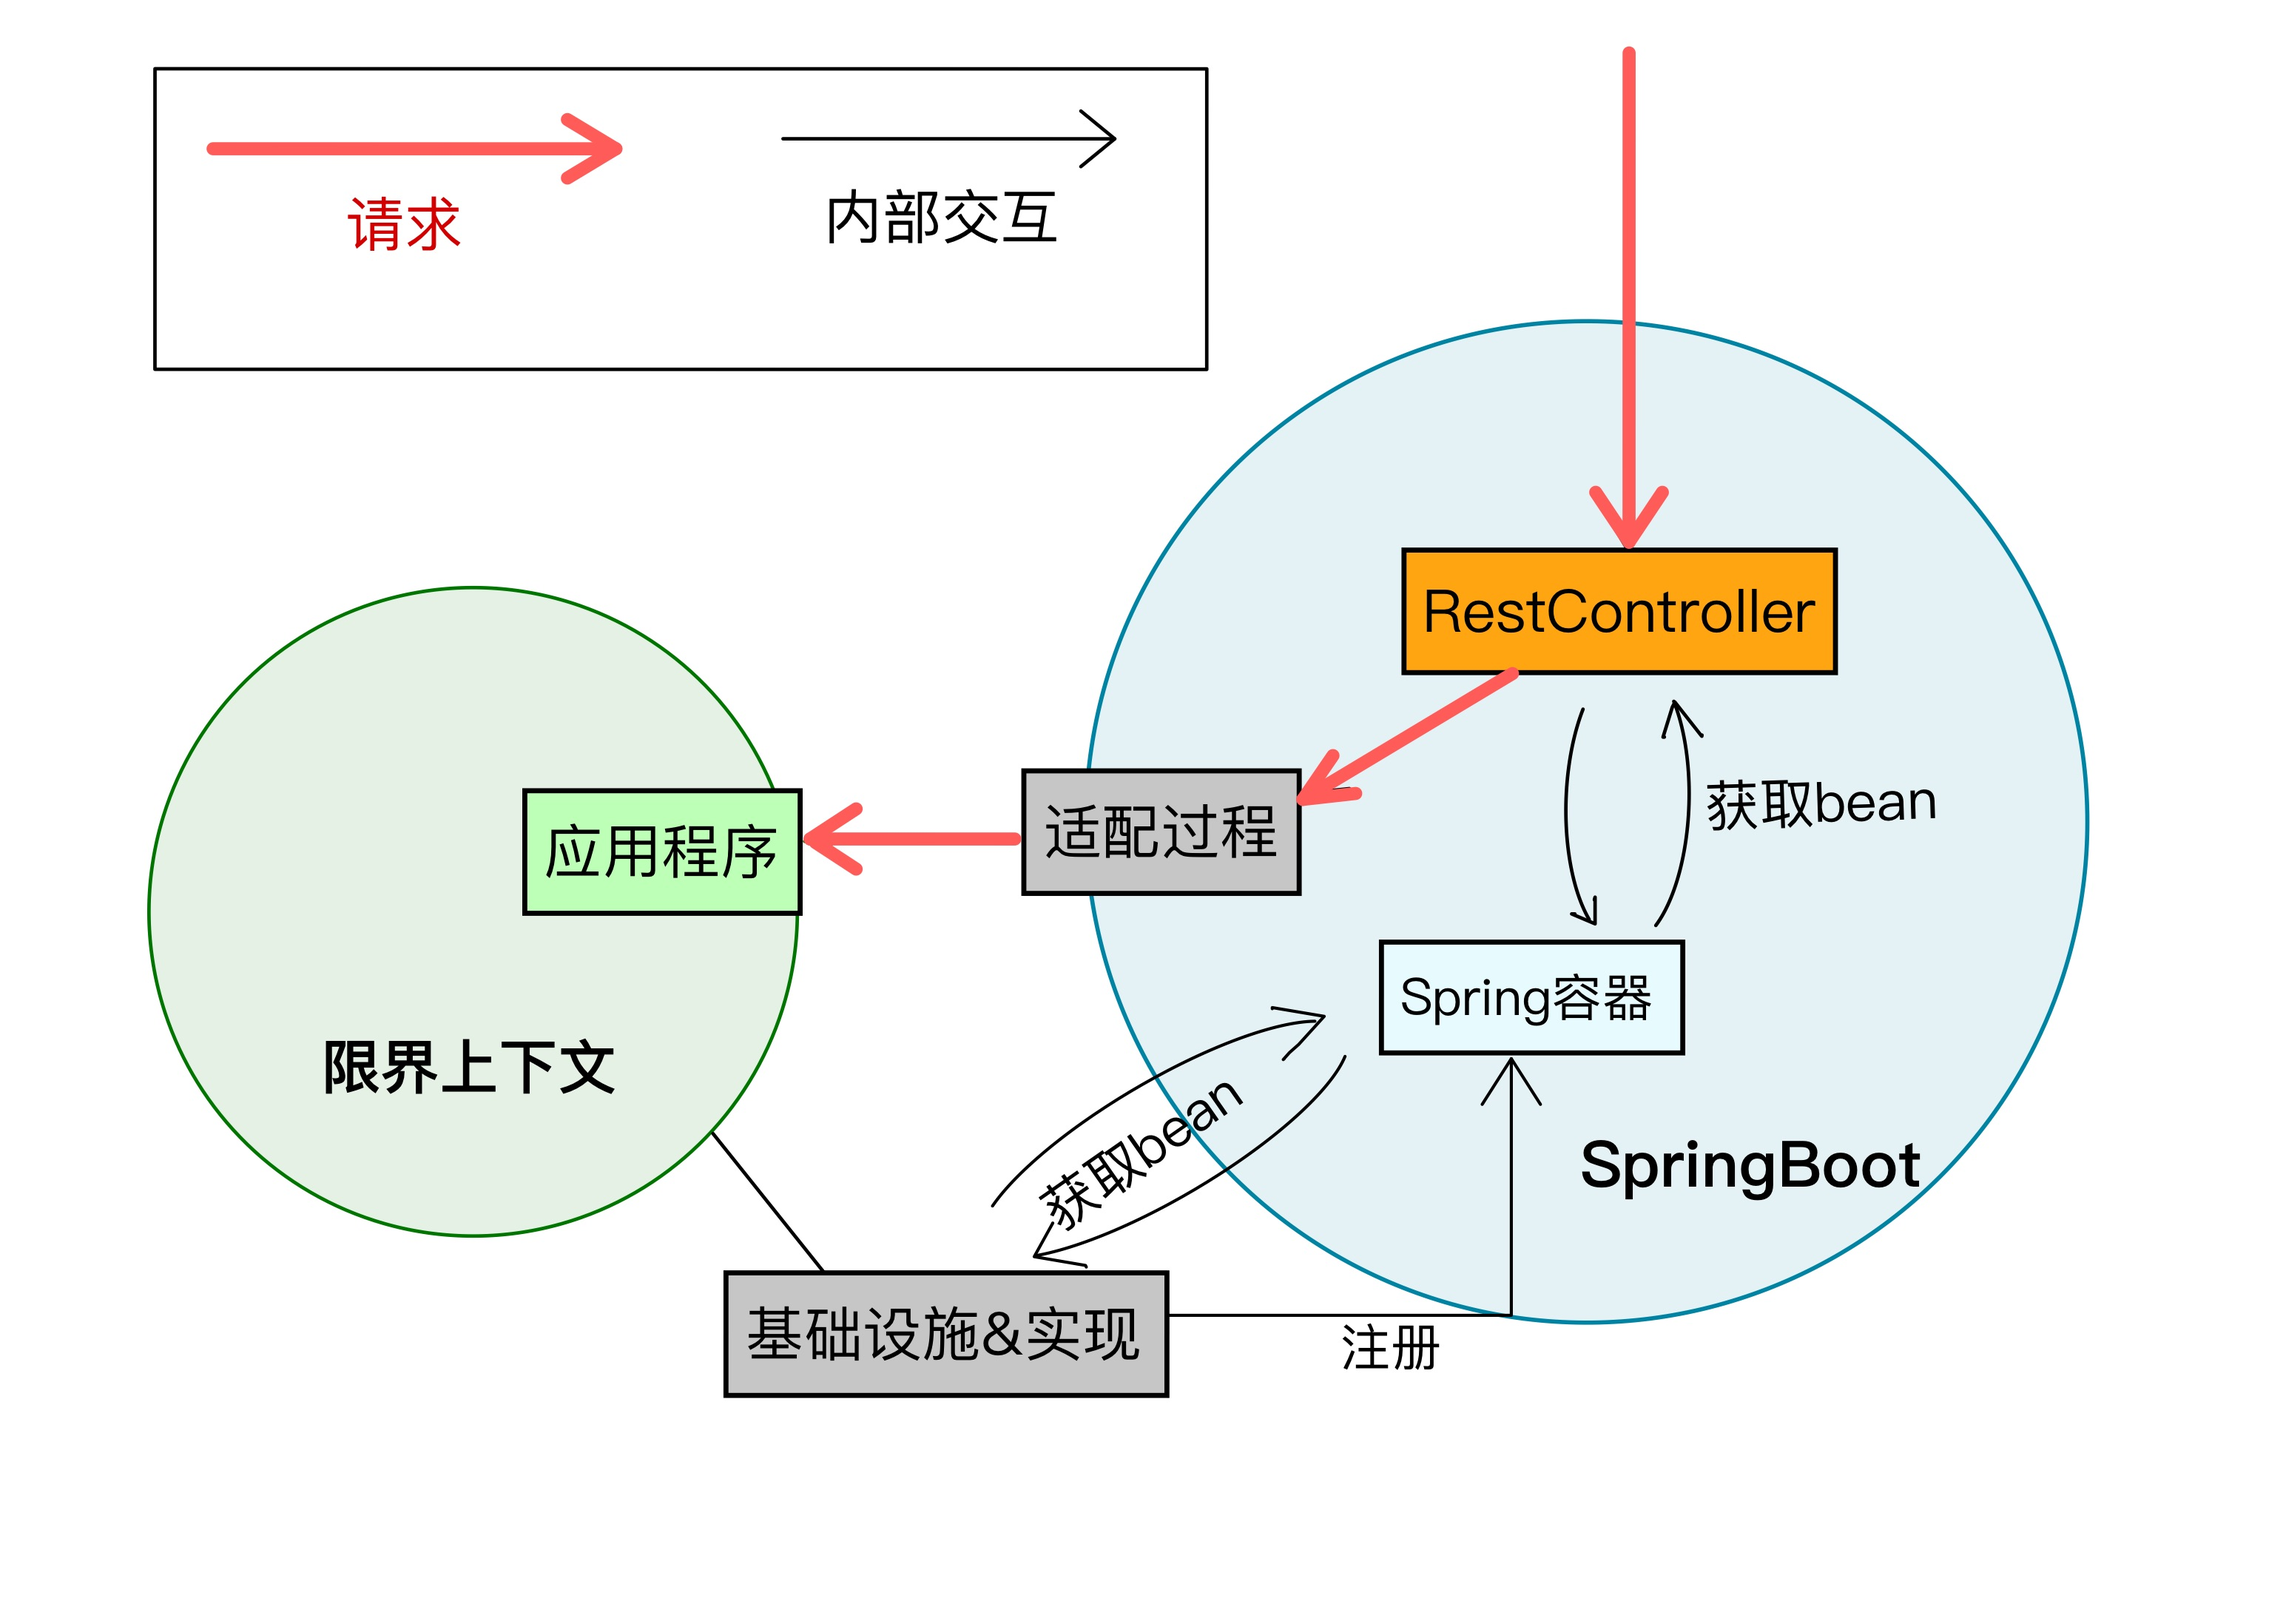
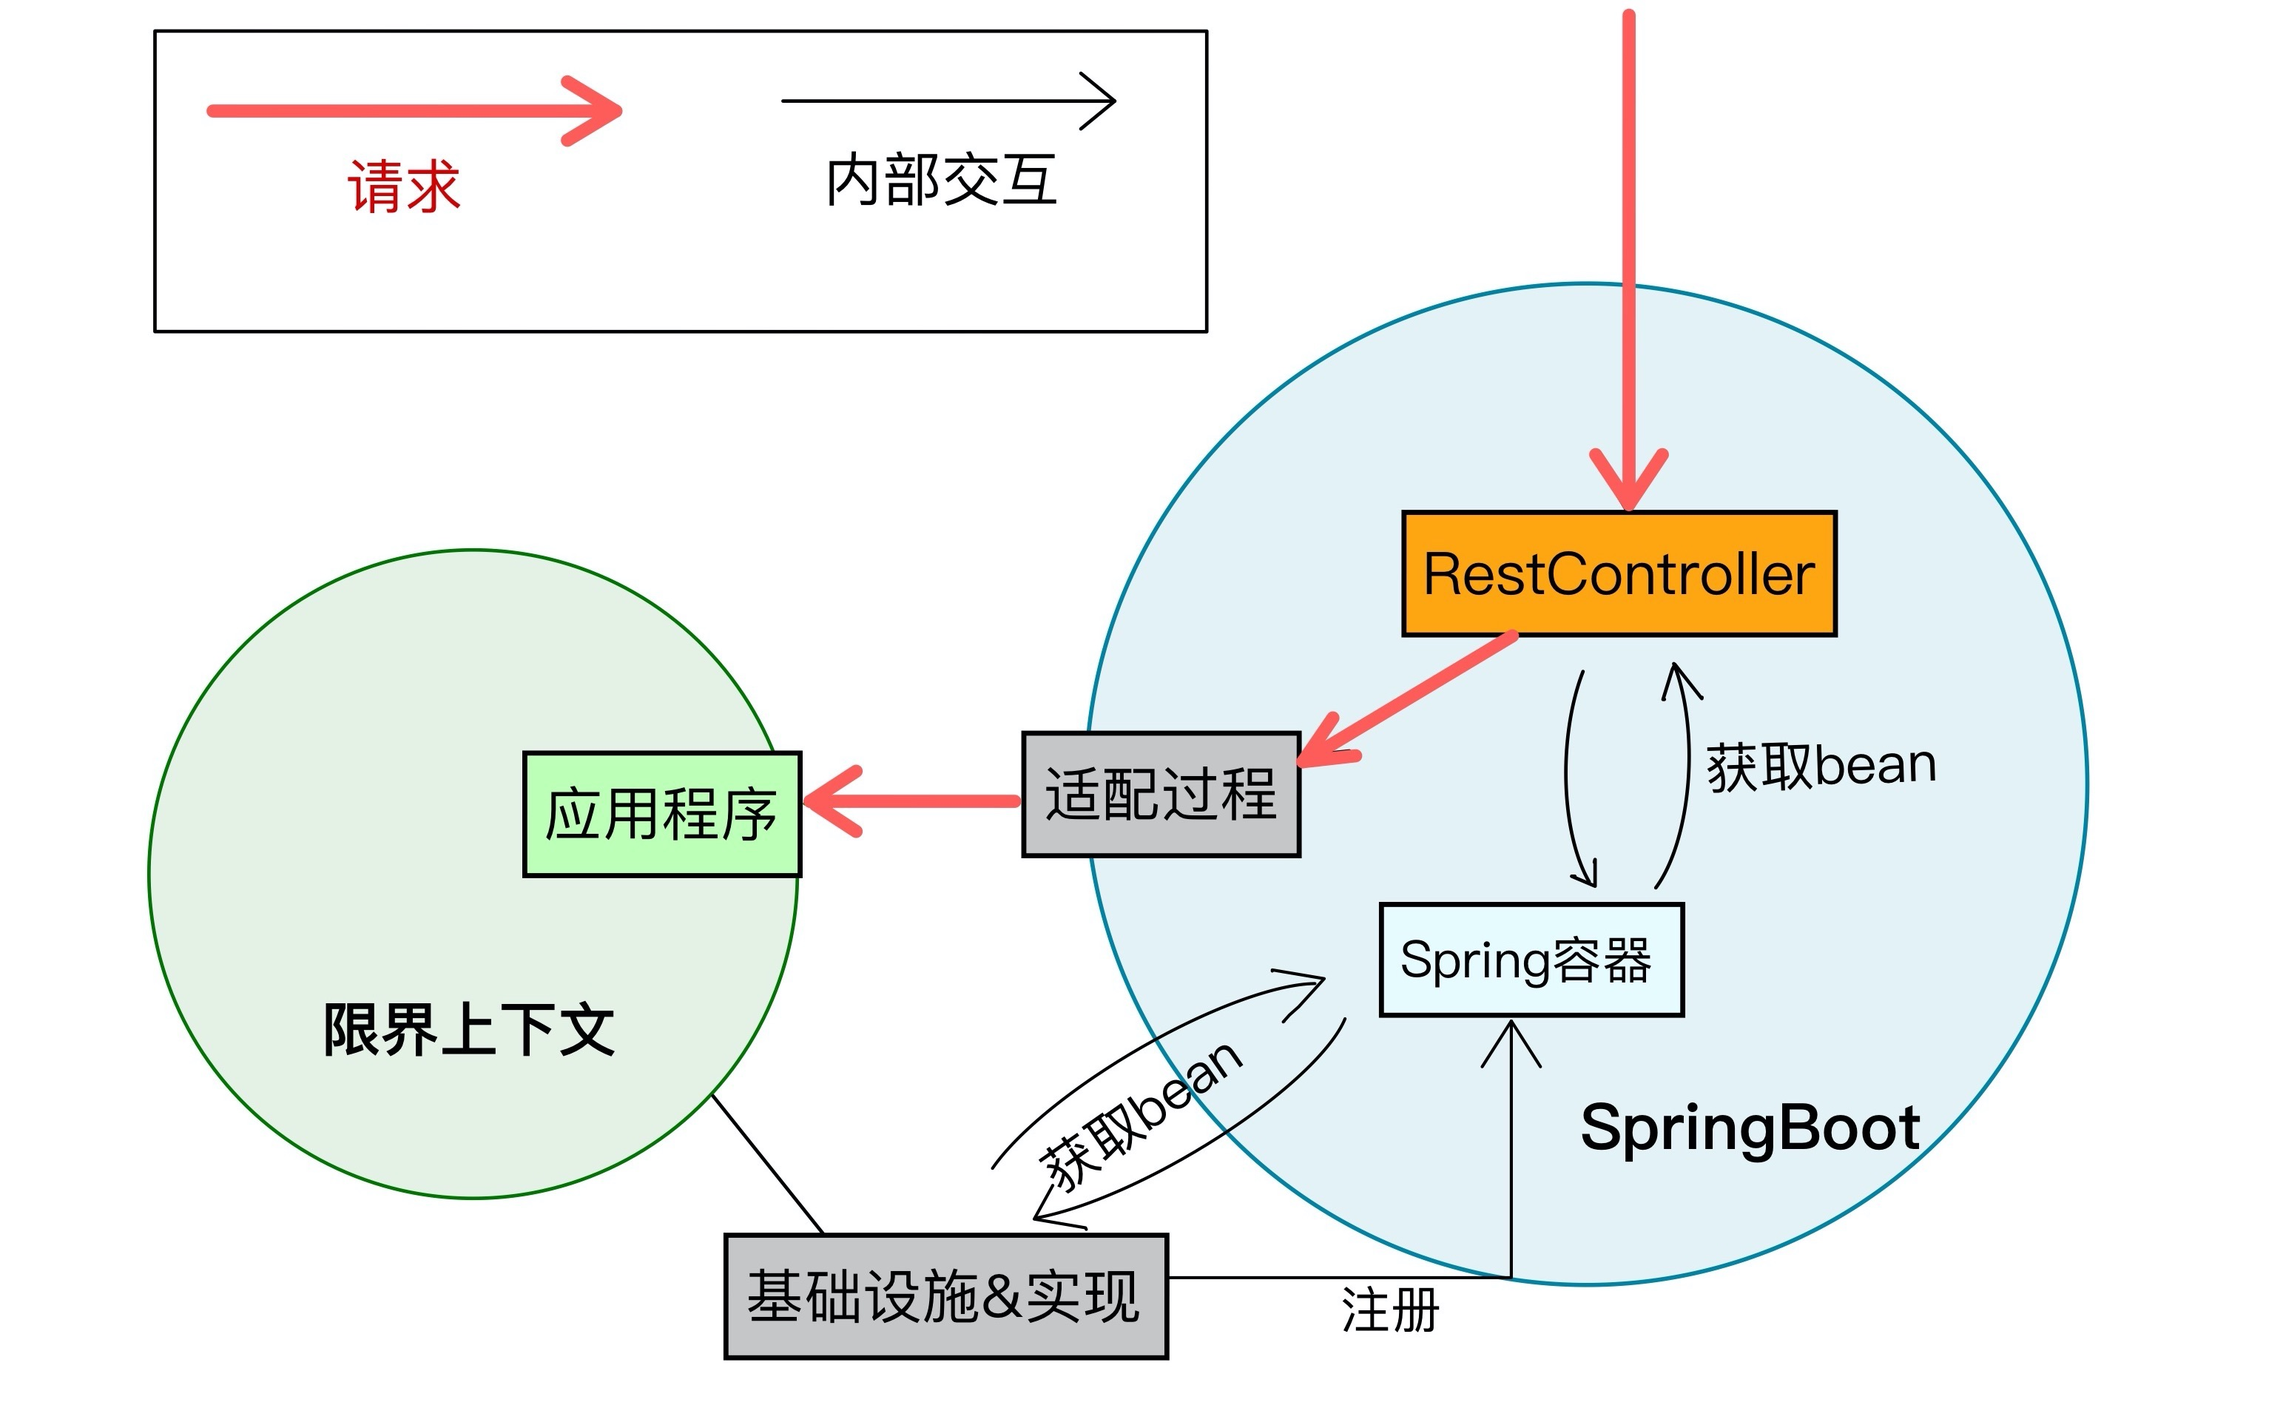
update

diff --git a/ddd/index.html b/ddd/index.html
@@ -531,9 +531,7 @@ class PostCollection private constructor(
 	private var holdType: HoldType,
 	private var regular: Set&lt;PostID>,
 	private var tops: List&lt;PostID>
-) : SmartEntity&lt;PostCollection>() {
-	/* ... */
-}
+) : SmartEntity&lt;PostCollection>()
 					</code></pre>
 				<!-- </div> -->
 				<aside class="notes" data-markdown="">
@@ -761,7 +759,7 @@ class CompilationServiceImpl(
 				<h3>关系一览</h3>
 				<h4>上下文边界</h4>
 				<div class="r-stack">
-					<img style="height: 80%;" class="fragment fade-out" data-fragment-index="0" src='./img/arch-ctx.jpg'
+					<img style="height: 35vw;" class="fragment fade-out" data-fragment-index="0" src='./img/arch-ctx.jpg'
 						alt="上下文包含什么?" />
 					<ol class="fragment current-visible fade-down-in" data-fragment-index="0" style="margin-top: 3vw">
 						<li>应用程序接口</li>
@@ -791,7 +789,7 @@ class CompilationServiceImpl(
 				<h3>关系一览</h3>
 				<h4>集成</h4>
 				<div>
-					<img style="height:550px" src='./img/arch-int.jpg' alt="集成" />
+					<img style="height:35vw" src='./img/arch-int.jpg' alt="集成" />
 				</div>
 			</section>
 
